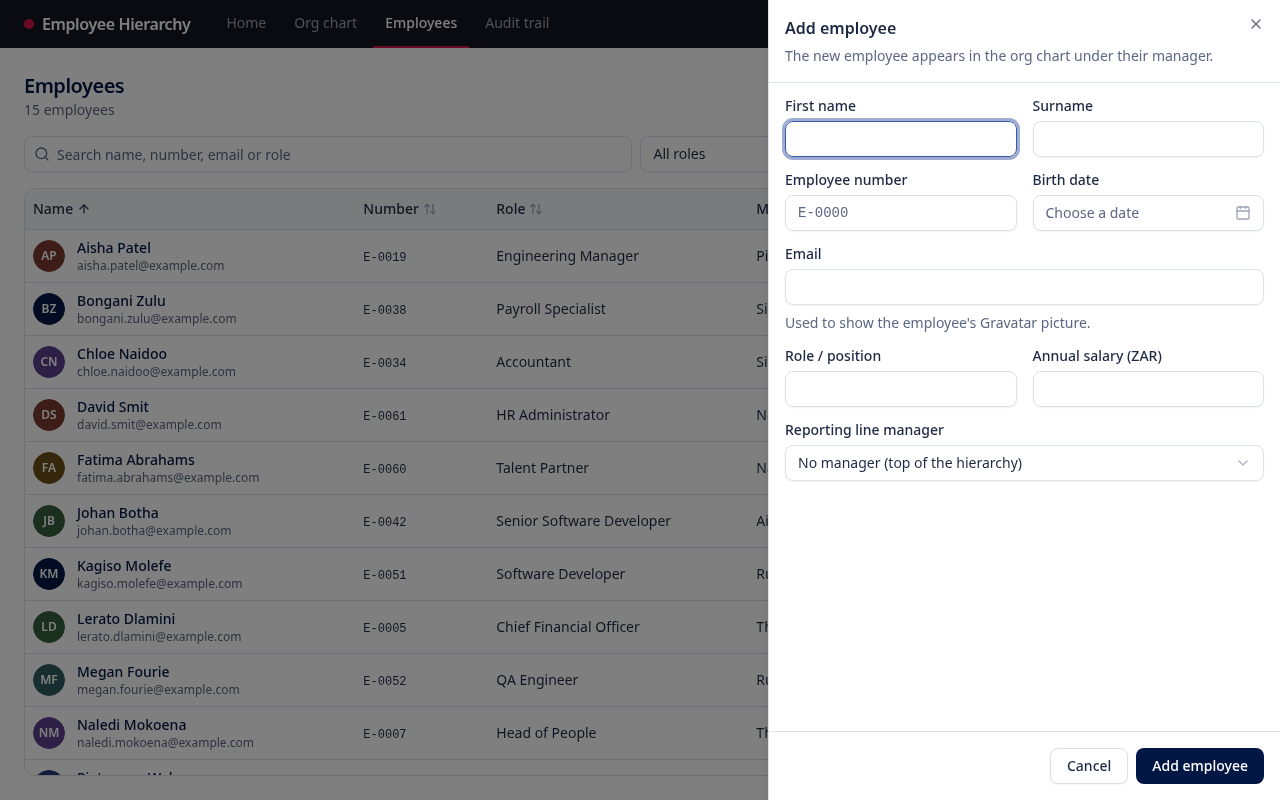
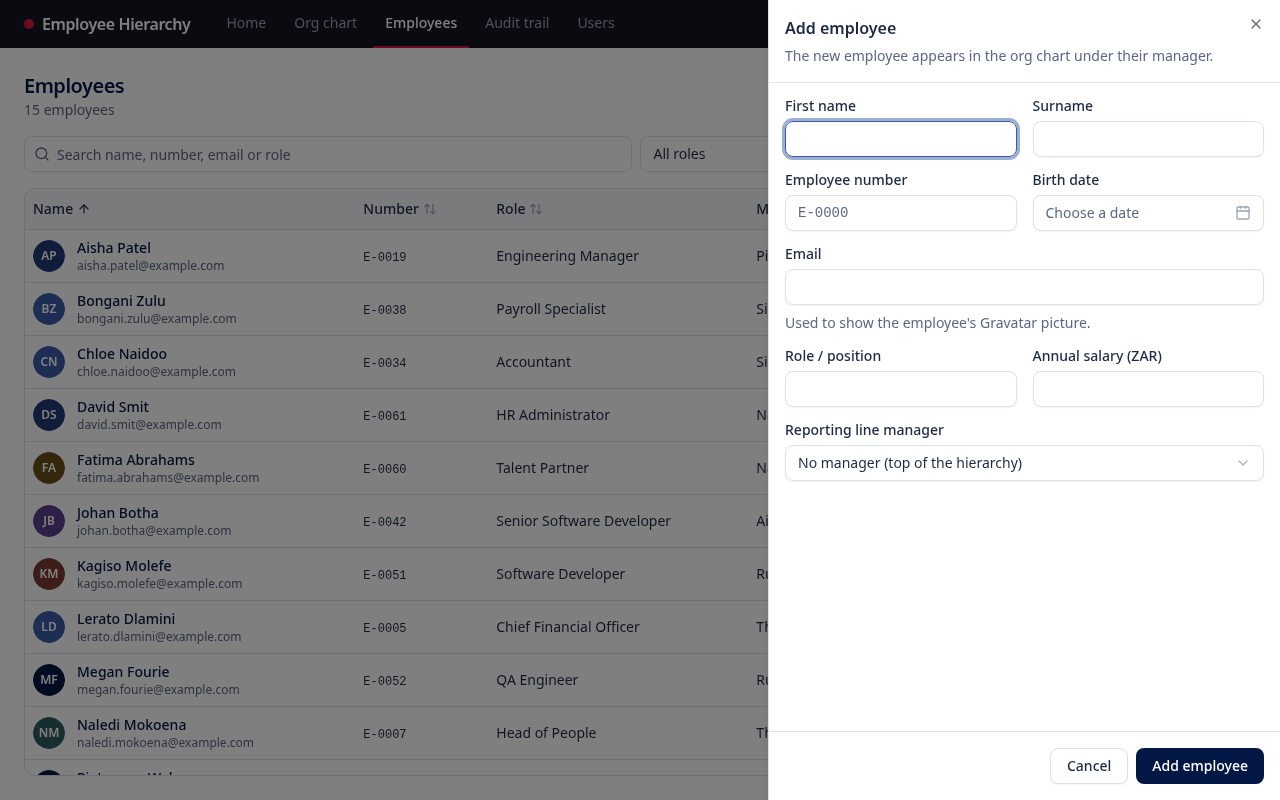
Capture the Users page, one-time password and first sign-in for the user guide

Changed region(s): [[0.0312, 0.625, 0.0625, 0.875], [0.0, 0.2812, 0.0625, 0.4062], [0.0, 0.5, 0.0625, 0.5312]]

diff --git a/apps/web/e2e/capture-screenshots.spec.ts b/apps/web/e2e/capture-screenshots.spec.ts
@@ -67,6 +67,40 @@ test.describe('user guide screenshots', () => {
     await page.goto('/audit');
     await expect(page.getByRole('heading', { name: 'Audit trail' })).toBeVisible();
     await shot(page, 'audit');
+
+    // Accounts (ADR-0036): the Users page, and issuing a one-time password.
+    await page.goto('/users');
+    await expect(page.getByRole('heading', { name: 'Users' })).toBeVisible();
+    await shot(page, 'users');
+    await page.getByRole('button', { name: 'Access for Sipho Ndlovu' }).click();
+    await page.getByRole('menuitem', { name: 'Issue a password' }).click();
+    await page.getByRole('alertdialog').getByRole('button', { name: 'Issue password' }).click();
+    await expect(page.getByRole('heading', { name: 'New one-time password' })).toBeVisible();
+    await shot(page, 'one-time-password');
+    const temporary = (await page.getByLabel('One-time password', { exact: true }).textContent())!;
+    await page.getByRole('button', { name: 'Done' }).click();
+
+    await page.goto('/audit');
+    await page.getByRole('tab', { name: 'Account changes' }).click();
+    await expect(page.getByText('Password reset').first()).toBeVisible();
+    await shot(page, 'audit-accounts');
+
+    // Sipho's first sign-in, in a separate session.
+    const context = await page
+      .context()
+      .browser()!
+      .newContext({
+        viewport: { width: 1280, height: 800 },
+        extraHTTPHeaders: { 'X-E2E-Client': `capture-sipho-${Date.now()}` },
+      });
+    const sipho = await context.newPage();
+    await sipho.goto('/login');
+    await sipho.getByLabel('Email').fill('sipho.ndlovu@example.com');
+    await sipho.getByLabel('Password').fill(temporary.trim());
+    await sipho.getByRole('button', { name: 'Sign in' }).click();
+    await expect(sipho.getByText('Choose your password')).toBeVisible();
+    await shot(sipho, 'change-password');
+    await context.close();
   });
 
   test('as a viewer', async ({ page }) => {
